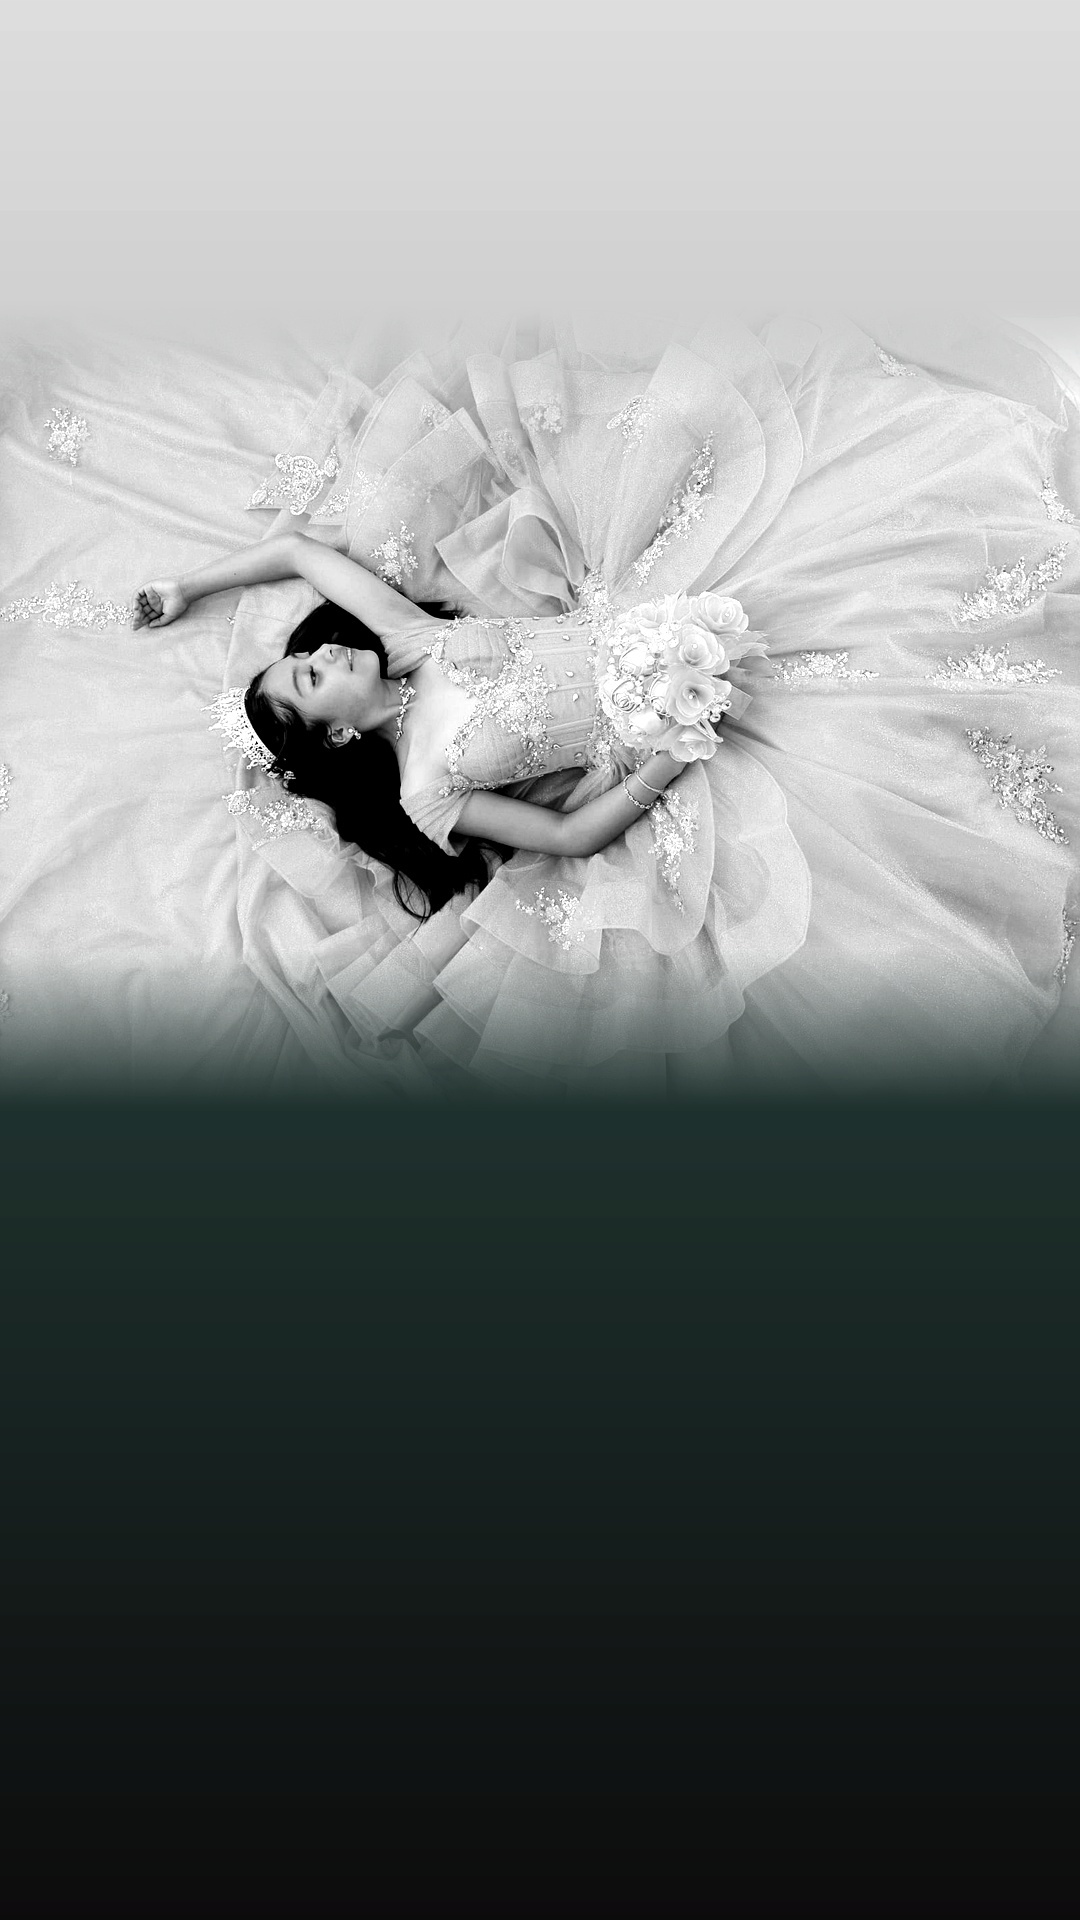
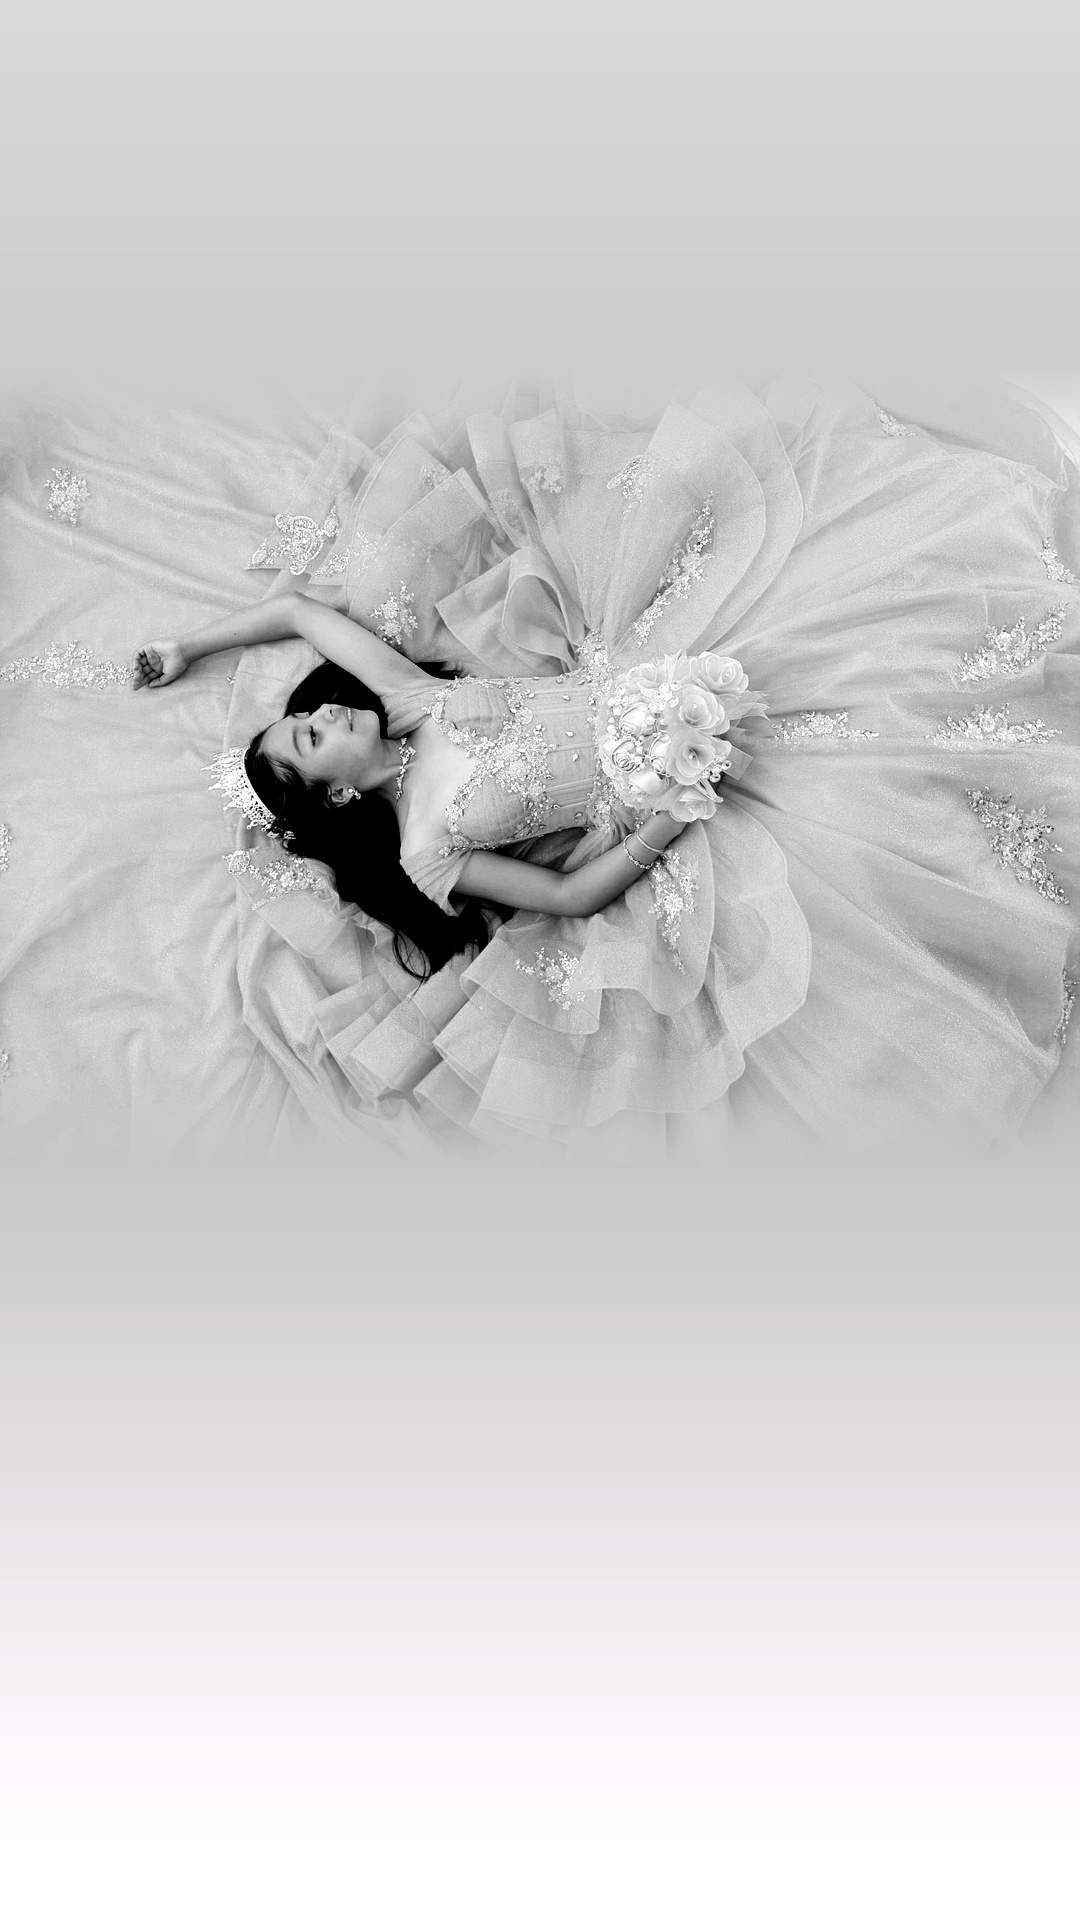
Eliminar franjas oscuras y aplicar capsulas Glassmorphism translucidas de alta costura

diff --git a/style.css b/style.css
@@ -295,14 +295,13 @@ h1, h2, h3, h4 {
     left: 0;
     width: 100%;
     height: 100%;
-    /* Degradado sutil arriba para lucir el rostro de Tatiana, y oscuro abajo para máxima legibilidad del texto */
+    /* Desvanecimiento cristalino hiper sutil, dejando ver la foto al 100% */
     background: linear-gradient(
         to bottom,
-        rgba(44, 62, 59, 0.1) 0%,
-        rgba(44, 62, 59, 0.15) 35%,
-        rgba(44, 62, 59, 0.65) 60%,
-        rgba(44, 62, 59, 0.85) 85%,
-        rgba(249, 243, 247, 1) 100%
+        rgba(249, 243, 247, 0.2) 0%,
+        rgba(249, 243, 247, 0) 30%,
+        rgba(249, 243, 247, 0.1) 70%,
+        rgba(249, 243, 247, 0.85) 100%
     );
     z-index: 1;
 }
@@ -311,17 +310,23 @@ h1, h2, h3, h4 {
     position: relative;
     z-index: 2;
     text-align: center;
-    padding: 40px 20px 70px 20px;
-    max-width: 800px;
-    margin: 0 auto;
+    padding: 30px 24px;
+    max-width: 700px;
+    margin: 0 15px 35px 15px;
+    background: rgba(255, 255, 255, 0.52);
+    backdrop-filter: blur(14px);
+    -webkit-backdrop-filter: blur(14px);
+    border: 1px solid rgba(255, 255, 255, 0.7);
+    border-radius: 28px;
+    box-shadow: 0 15px 35px rgba(84, 110, 106, 0.08);
 }
 
 .quote-icon-sparkle {
     color: var(--gold);
-    font-size: 1.8rem;
+    font-size: 1.6rem;
     display: inline-block;
-    margin-bottom: 15px;
-    filter: drop-shadow(0 2px 10px rgba(197, 160, 89, 0.8));
+    margin-bottom: 10px;
+    filter: drop-shadow(0 2px 8px rgba(197, 160, 89, 0.6));
     animation: sparkleGlow 3s ease-in-out infinite alternate;
 }
 
@@ -332,40 +337,37 @@ h1, h2, h3, h4 {
 
 .immersive-quote-text {
     font-family: var(--font-serif);
-    font-size: clamp(1.4rem, 4vw, 2.3rem);
+    font-size: clamp(1.15rem, 3.5vw, 1.8rem);
     font-style: italic;
-    color: #FFFFFF;
-    line-height: 1.65;
-    letter-spacing: 0.03em;
-    text-shadow: 0 4px 20px rgba(0, 0, 0, 0.95), 0 2px 6px rgba(0, 0, 0, 0.9);
-    margin: 0 auto 25px auto;
+    color: var(--text-dark);
+    line-height: 1.6;
+    letter-spacing: 0.02em;
+    margin: 0 auto 18px auto;
 }
 
 .quote-signature-divider {
     display: flex;
     justify-content: center;
     align-items: center;
-    margin: 0 auto 15px auto;
+    margin: 0 auto 12px auto;
 }
 
 .quote-signature-divider .line {
     width: 60px;
     height: 1px;
-    background-color: rgba(255, 255, 255, 0.7);
+    background-color: var(--rose-gold-glimmer);
 }
 
 .quote-signature-divider .diamond {
     color: var(--gold);
     margin: 0 12px;
-    font-size: 0.9rem;
-    text-shadow: 0 2px 10px rgba(0, 0, 0, 0.8);
+    font-size: 0.85rem;
 }
 
 .quote-author-name {
     font-family: var(--font-handwritten);
-    font-size: clamp(3.2rem, 7vw, 4.8rem);
-    color: var(--rose-gold-light);
-    text-shadow: 0 4px 18px rgba(0, 0, 0, 0.9);
+    font-size: clamp(2.8rem, 6vw, 4.2rem);
+    color: var(--rose-gold-dark);
     font-weight: normal;
 }
 
@@ -410,14 +412,13 @@ h1, h2, h3, h4 {
     left: 0;
     width: 100%;
     height: 100%;
-    /* Desvanecimiento gradual suave en los bordes para fundirse con el fondo */
+    /* Desvanecimiento gradual suave y luminoso */
     background: linear-gradient(
         to bottom,
-        rgba(249, 243, 247, 1) 0%,
-        rgba(249, 243, 247, 0) 18%,
-        rgba(0, 0, 0, 0) 55%,
-        rgba(44, 62, 59, 0.65) 85%,
-        rgba(249, 243, 247, 1) 100%
+        rgba(249, 243, 247, 0.85) 0%,
+        rgba(249, 243, 247, 0) 15%,
+        rgba(249, 243, 247, 0) 75%,
+        rgba(249, 243, 247, 0.95) 100%
     );
     z-index: 1;
 }
@@ -426,34 +427,39 @@ h1, h2, h3, h4 {
     position: relative;
     z-index: 2;
     text-align: center;
-    padding: 30px 20px 60px 20px;
-    width: 100%;
+    padding: 22px 28px;
+    max-width: 460px;
+    margin: 0 15px 35px 15px;
+    background: rgba(255, 255, 255, 0.52);
+    backdrop-filter: blur(14px);
+    -webkit-backdrop-filter: blur(14px);
+    border: 1px solid rgba(255, 255, 255, 0.7);
+    border-radius: 26px;
+    box-shadow: 0 15px 35px rgba(84, 110, 106, 0.08);
 }
 
 .banner-crown-icon {
     color: var(--gold);
-    font-size: 2.2rem;
+    font-size: 1.9rem;
     display: inline-block;
-    margin-bottom: 8px;
-    filter: drop-shadow(0 3px 10px rgba(0, 0, 0, 0.8));
+    margin-bottom: 5px;
+    filter: drop-shadow(0 2px 8px rgba(197, 160, 89, 0.5));
 }
 
 .banner-title-script {
     font-family: var(--font-handwritten);
-    font-size: clamp(3rem, 6.5vw, 4.5rem);
-    color: #FFFFFF;
-    text-shadow: 0 4px 20px rgba(0, 0, 0, 0.9);
-    margin-bottom: 5px;
+    font-size: clamp(2.6rem, 5.5vw, 3.8rem);
+    color: var(--rose-gold-dark);
+    margin-bottom: 3px;
     font-weight: normal;
 }
 
 .banner-title-sub {
     font-family: var(--font-sans);
-    font-size: 0.85rem;
-    letter-spacing: 0.35em;
-    color: var(--rose-gold-light);
+    font-size: 0.8rem;
+    letter-spacing: 0.3em;
+    color: var(--text-muted);
     text-transform: uppercase;
-    text-shadow: 0 2px 10px rgba(0, 0, 0, 0.9);
     font-weight: 500;
 }
 
